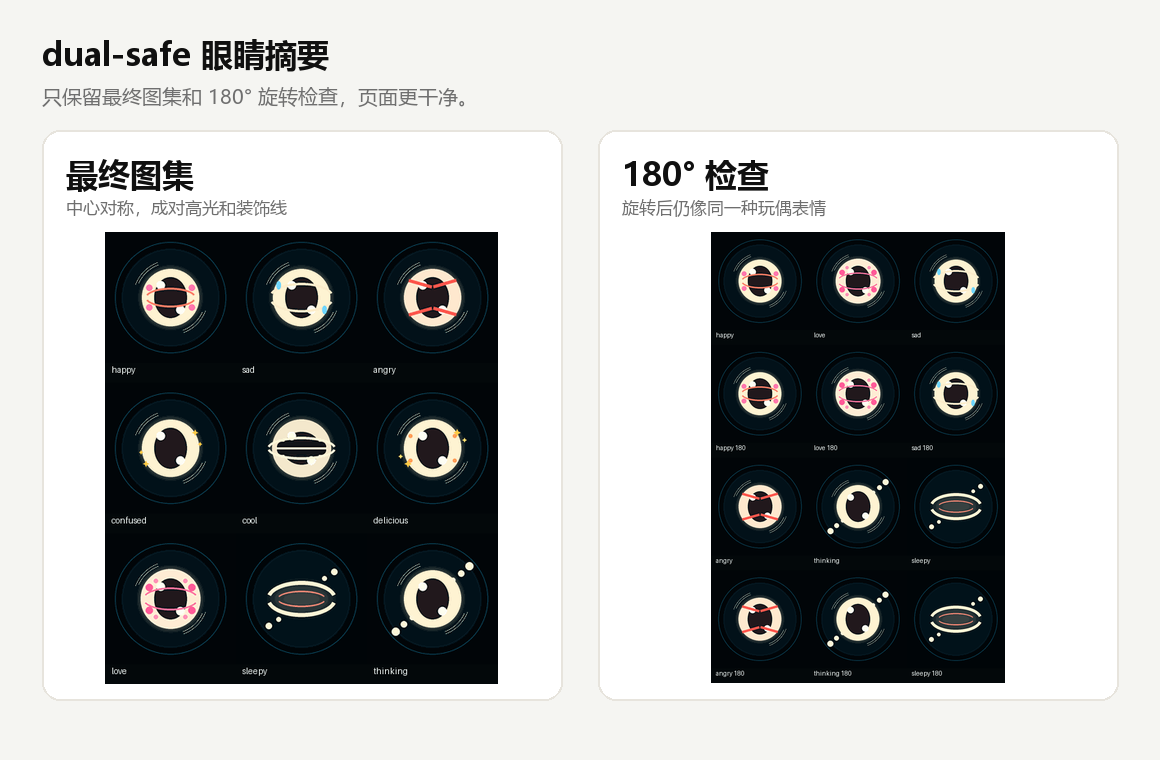
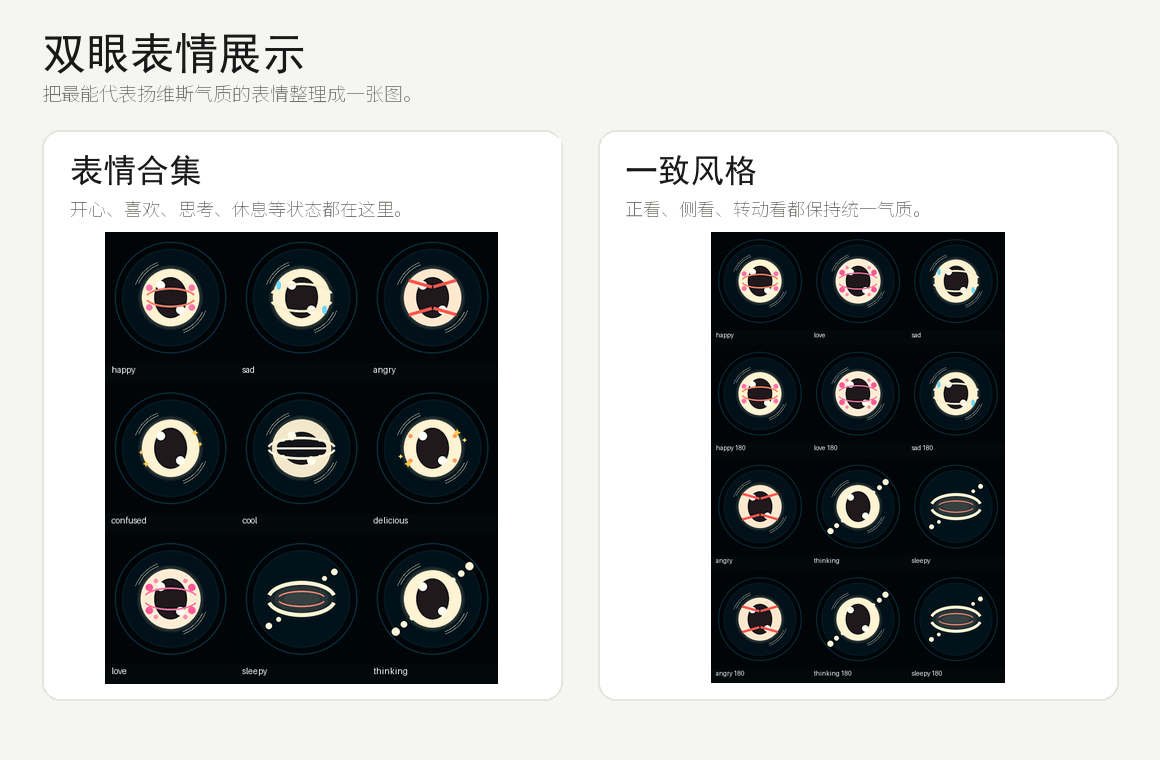
YAVIS ???????????
- ??????/??/?????????????????????????????
- ????????????????????????
- ??????????????????????

Changed region(s): [[0.031, 0.0303, 0.4034, 0.1513], [0.0621, 0.1816, 0.3414, 0.3026], [0.5276, 0.1816, 0.7448, 0.3026]]

diff --git a/YAVIS/index.html b/YAVIS/index.html
@@ -977,7 +977,7 @@
       <a href="#name">名字由来</a>
       <a href="#scenes">校园场景</a>
       <a href="#product">原型状态</a>
-      <a href="#eye-debug">眼睛调试</a>
+      <a href="#eye-debug">表情展示</a>
       <a href="#knowledge">资料内容</a>
       <a class="nav-cta" href="#voice">小扬同学</a>
     </div>
@@ -1140,18 +1140,18 @@
     <section class="section soft" id="eye-debug">
       <div class="wrap eye-debug-layout">
         <div class="eye-debug-copy">
-          <div class="eyebrow">眼睛方向调试</div>
-          <h2>只保留最终眼睛和旋转检查。</h2>
-          <p>两只圆屏共用一路显示时，只要其中一块屏幕等效旋转 180°，带明显上/下方向的表情就容易显得反。这个问题不用在页面里铺满所有试错图，直接看最终结果就够了。</p>
-          <p>现在这一段只展示 dual-safe 图集和 180° 检查：中心眼仁、成对高光、成对装饰线，让玩偶正看和倒装看都像同一种表情。</p>
-          <p class="eye-debug-note">结论：旧版反馈和过渡图不再占页面主视觉，调试信息压缩成一张摘要图。</p>
+          <div class="eyebrow">双眼表情展示</div>
+          <h2>让每一种表情，都更像扬维斯。</h2>
+          <p>扬维斯的双眼是整只玩偶最有记忆点的部分。我们把开心、思考、喜欢、休息等状态整理成统一风格，让它一出现就有自己的神态。</p>
+          <p>这一页只保留最能代表效果的一张总览图，重点集中、画面更干净，浏览时能更直接地感受到扬维斯的表情气质。</p>
+          <p class="eye-debug-note">这一页只放最有代表性的表情展示，不再堆满零散画面。</p>
         </div>
 
-        <figure class="eye-debug-media" aria-label="YAVIS 眼睛调试摘要图">
-          <img src="../images/yavis/eye-debug-summary.png" alt="dual-safe 眼睛最终图集和 180 度旋转检查摘要" loading="eager" decoding="async">
+        <figure class="eye-debug-media" aria-label="YAVIS 双眼表情展示图">
+          <img src="../images/yavis/eye-debug-summary.png" alt="扬维斯双眼表情总览图" loading="eager" decoding="async">
           <figcaption>
-            <strong>精简后的调试摘要</strong>
-            从五张分散图片压缩成一张图，只保留最终图集和旋转验证。
+            <strong>双眼表情总览</strong>
+            把最能代表扬维斯气质的表情整理成一张图，方便一眼看到它的神态。
           </figcaption>
         </figure>
       </div>
